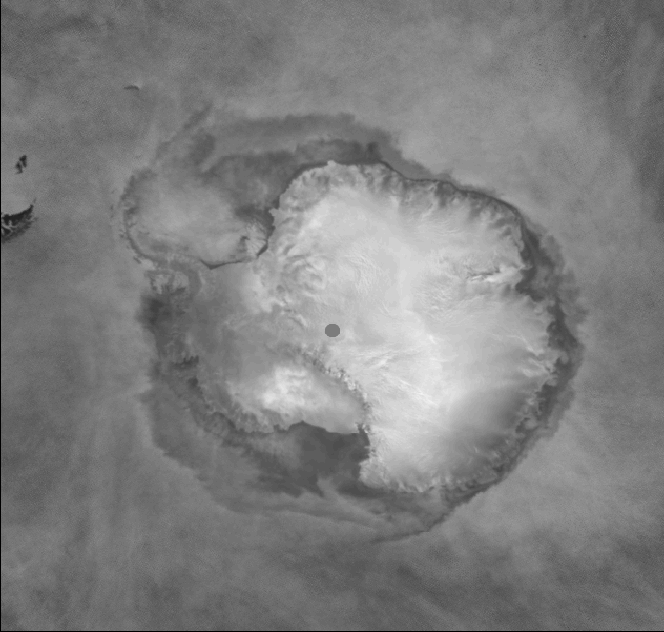
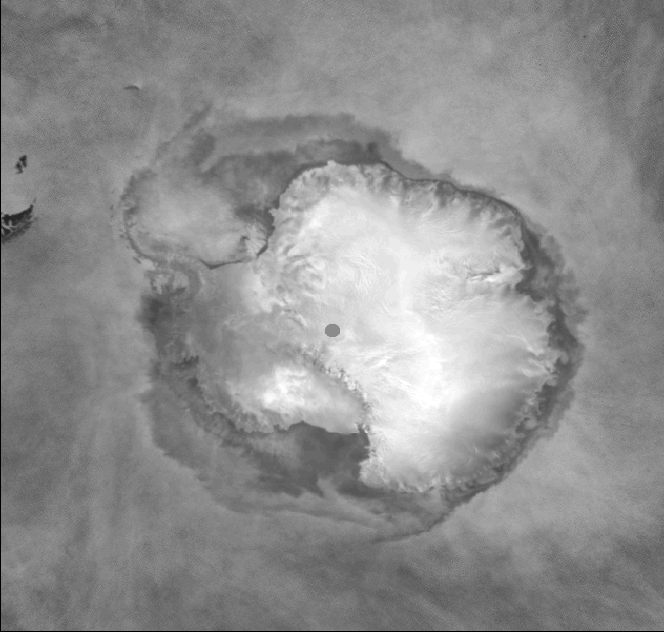
working on fixing side and lower panels

Changed region(s): [[0.4518, 0.3006, 0.7229, 0.7215], [0.3916, 0.5712, 0.4819, 0.6614], [0.7229, 0.4209, 0.753, 0.4509]]

diff --git a/css/core.css b/css/core.css
@@ -5,7 +5,7 @@ body {
 	font-family: 'Roboto', 'Helvetica', 'Arial', 'Sans Serif';
 	max-width: 100%;
 	overflow-x: hidden;
-	/*background: url('../images/snow2.jpg') no-repeat center center fixed;*/
+	background: url('../images/snow2.jpg') no-repeat center center fixed;
 	-webkit-background-size: cover;
 	-moz-background-size: cover;
 	-o-background-size: cover;
@@ -20,47 +20,71 @@ body {
 	height: 100%;
 	background-color: rgba(0, 0, 0, 0.5);
 }
-#top {
+#content {
 	clear: left;
 	width: 100vw;
 	height: 100vh;
-}
-#mapContainer {
-	float: left;
-	width: 100vw;
-	height: 100%;
 	background-color: #aaa;
 }
-#map { height: 100%; }
-#sidebar {
-	float: left;
-	width: 24vw;
+#map{
+	-webkit-background-size: cover;
+	-moz-background-size: cover;
+	-o-background-size: cover;
+	background-size: cover;
+	margin: 0; padding: 0;
 	height: 100%;
-	background-color: #999;
 }
 #logo {
 	position: absolute;
-	float: left;
-	top: 10px;
 	z-index: 2;
+	top: 10px;
+	left: 10px;
 }
 #logo img {
-	margin-left: 7px;
-	margin-right: 0px;
+	margin: 10px 0px 0px 10px;
+}
+#sidebar {
+	position: absolute;
+	z-index: 3;
+	top: 140px;
+	left: 20px;
+	width: 220px;
+	bottom: 140px;
+	background-color: rgba(0,0,0,0.5);
+}
+#smallMap{
+	position: absolute;
+	z-index: 3;
+	top: 660px;
+	left: 20px;
+	width: 220px;
+	height: 100px;
+}
+#timelineBox {
+	position: absolute;
+	z-index: 3;
+	bottom: 20px;
+	left: 20px;
+	right: 20px;
+	height: 100px;
+	background-color: rgba(0,0,0,0.5);
+}
+.timelineBoxInternal {
+	position: relative;
+	top: 50%;
+	transform: translateY(-50%);
 }
 .ol-zoom { /* controls the position of the zoom button */
 	position: absolute;
 	left: auto;
 	right: 20px;
-	top: 50px;
+	top: 20px;
 }
 p {
 	color: #fff;
-	font-size: 0.8em;
-	text-align: center;
-}
-#darkText {
-	color: #999;
+	font-size: 0.7em;
+	/*text-align: center;
+	line-height: 80%;*/
 }
 .outputResultsBack {
 	background-color: "#00FF00";
@@ -70,14 +94,8 @@ p {
 	overflow: scroll;
 	font-size: 0.7em;
 }
-.row {
-	width: 92%;
-	position: relative;
+.row input{
 	float: left;
-	display: inline-block;
-	text-align: center;
-	padding: 0;
-	margin-left: 5%;
 }
 .slide {
 	margin: 0 2% 0 2%;
@@ -92,11 +110,28 @@ p {
 	font-size: 0.8em;
 	letter-spacing: 2px;
 }
-.btn:active {
-	font-size: 0.9em;
-	letter-spacing: 2.2px;
-}
 .sm { width: 19%; }
 .thr { width: 32%; }
 .md { width: 48%; }
 .lg { width: 98%; }
+.text {
+	font-family: "Montserrat", "sans-serif";
+	color: #fff;
+	font-weight: 500;
+	line-height: 82.5px;
+	text-transform: uppercase;
+}
+
+/* for the scrollbar on the side */
+div.scroll {
+	background-color: rgba(0,0,0,0.5);
+	width: 70px;
+	height: 70%;
+	overflow: hidden;
+}
+.container .content1 { background-color: rgba(6,4,2,0.5); }
+.container .header { background-color: rgba(1,7,2,0.5); padding: 10px; cursor: pointer; font-weight: bold; }
+.container .content1 { display: none; padding: 0px; }
+label { display: block; rgba(0,0,0,0.5): Window; margin: 0; padding: 0; width: 100%; }
+.container { color: #fff; }
+/* end */

diff --git a/js/antarctic-epsg3031.js b/js/antarctic-epsg3031.js
@@ -6,12 +6,12 @@ window.onload = function() {
 
 	// for outputting the mouse position
 	mousePositionControl = new ol.control.MousePosition({
-		coordinateFormat: ol.coordinate.createStringXY(4),
+		coordinateFormat: ol.coordinate.createStringXY(2),
 		projection: 'EPSG:4326',
 		// comment the following two lines to have the mouse position
 		// be placed within the map.
-		//className: 'custom-mouse-position',
-		//target: document.getElementById('mouse-position'),
+		className: 'custom-mouse-position',
+		target: document.getElementById('mouse-position'),
 		undefinedHTML: '&nbsp;'
 	});
 
@@ -23,13 +23,13 @@ window.onload = function() {
 			projection: ol.proj.get("EPSG:3031"),
 			extent: [-4194304, -4194304, 4194304, 4194304], // original
 			center: [0, 0],
-			zoom: 0,
+			zoom: 2,
 			maxZoom: 10,
 		}),
 		target: "map",
 		renderer: ["canvas","dom"],
 	});
-
+	
 	// create layer for binary layers of water, land, and permanent glacier
 	sourceLandWater = new ol.source.WMTS({
 		url: "//map1{a-c}.vis.earthdata.nasa.gov/wmts-antarctic/wmts.cgi",
@@ -87,14 +87,15 @@ window.onload = function() {
 	imageLayer = new ol.layer.Image({
 		opacity: 0.7,
 		source: new ol.source.ImageStatic({
-			url: 'images/feb.png',
+			url: 'images/mar.png',
 			imageSize: [632, 664],
 			projection: map.getView().getProjection(),
-			imageExtent: [-4094304, -4194304, 4194304, 4194304]//[-3929786, -3929786, 3923000, 3923000]
+			// extent [minx, miny, maxx, maxy]
+			imageExtent: [-3929786, -4394304, -3929786, 4323674]//[-3929786, -3929786, 3923000, 3923000]
 			//imageExtent: [-3929786, -3929786, 3923000, 4323674] // not sure why last number is 43...
 		})
 	});
-	map.addLayer(imageLayer);
+	//map.addLayer(imageLayer);
 	
 	// add layer with outlines of coasts and permanent glacier boundaries
 	sourceCoastlines = new ol.source.WMTS({
@@ -129,9 +130,8 @@ window.onload = function() {
 			format: new ol.format.GeoJSON()
 		})
 	});
-	//map.addLayer(heatmapLayer);
+	map.addLayer(heatmapLayer);
 	
-
 	// for drawing the selection box
 	source = new ol.source.Vector();
 	vector = new ol.layer.Vector({
@@ -194,7 +194,6 @@ window.onload = function() {
 			src: 'images/blueMarker.jpg'
 		}))
 	});
-
 	
 	redVectorLayer = new ol.layer.Vector({
 		opacity: 0.25,
@@ -207,8 +206,4 @@ window.onload = function() {
 		style: blueIconStyle
 	});
 
-	
-	
-	
-	
 };

diff --git a/js/core.js b/js/core.js
@@ -90,8 +90,7 @@ function updateMapAggregate(){
 				blueVectorSource.addFeature(iconFeature);
 			}
 		}
-		
-		
+			
 		map.addLayer(redVectorLayer);
 		map.addLayer(blueVectorLayer);
 		requestReturned = 0; // reset for next time
@@ -333,7 +332,6 @@ $(".sliderThreshold")
 		min: 50,
 		max: 350,
 		range: true,
-		step: 10,
 		values: [50, 350],
 		slide: function( event, ui ){
 			$( updateResults( anomalyRequest ) );
@@ -343,8 +341,7 @@ $(".sliderThreshold")
 		}
 	})
 	.slider("pips", {
-		rest: "label",
-		step: 3
+		rest: false
 	})
 	.on("slidechange", function( event, ui ){
 		$( updateResults( anomalyRequest ) );
@@ -454,6 +451,7 @@ Date.prototype.addDays = function ( days ){
 	dat.setDate(dat.getDate() + days);
 	return dat;
 }
+
 function getDates( startDate, stopDate ){
 	var dateArray = new Array();
 	var currentDate = startDate;
@@ -516,7 +514,6 @@ for( i = 0; i < dateArray.length; i++ ){
 		});
 	}
 }
-
 
 ////////////////////////////////////////////////////////////////////////////////////////
 ////////////////////////////////////////////////////////////////////////////////////////
